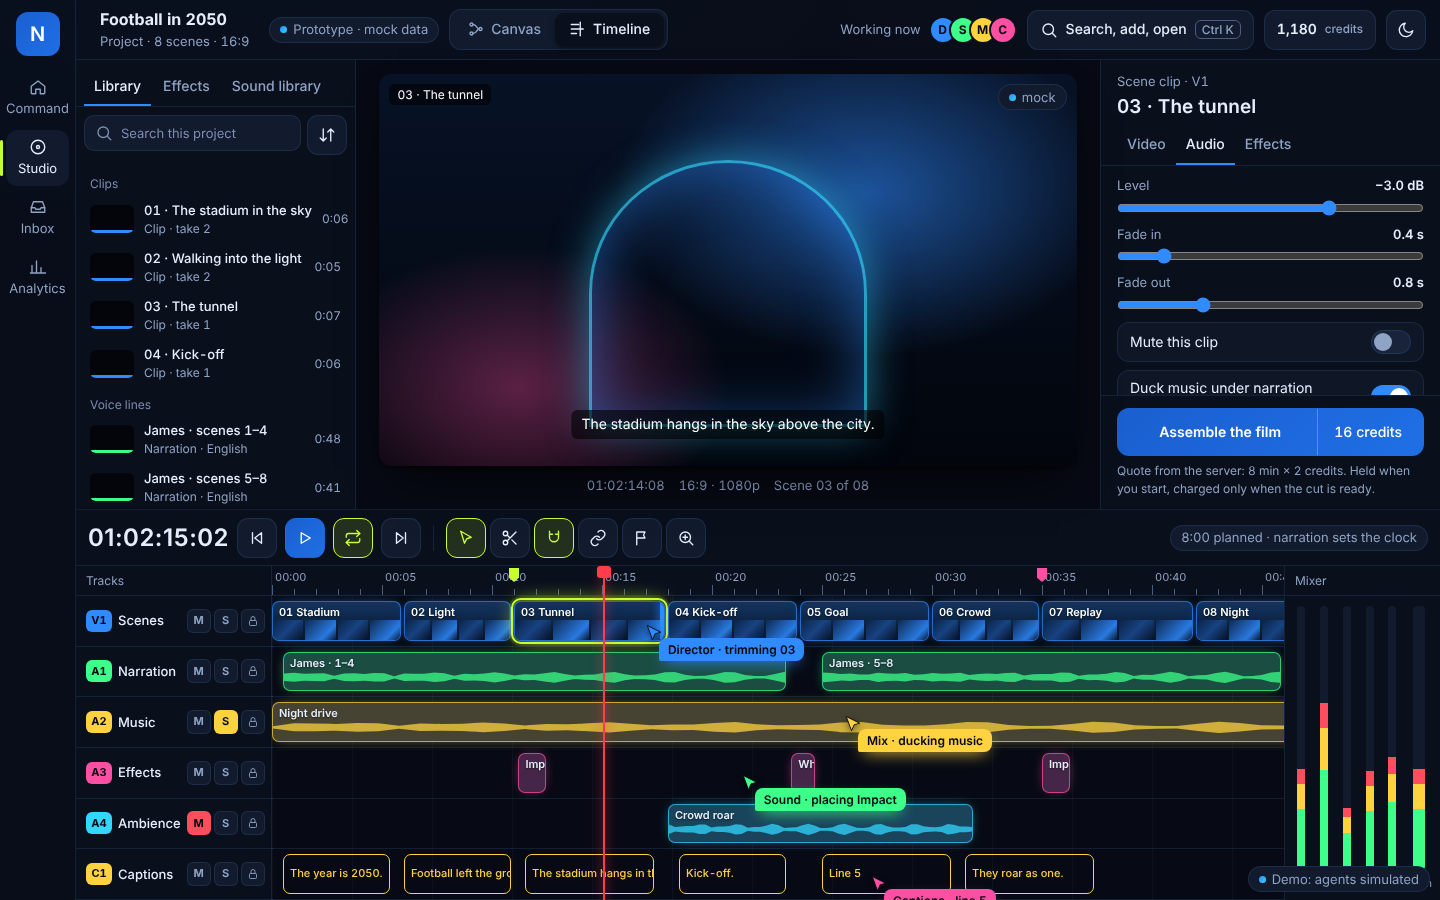
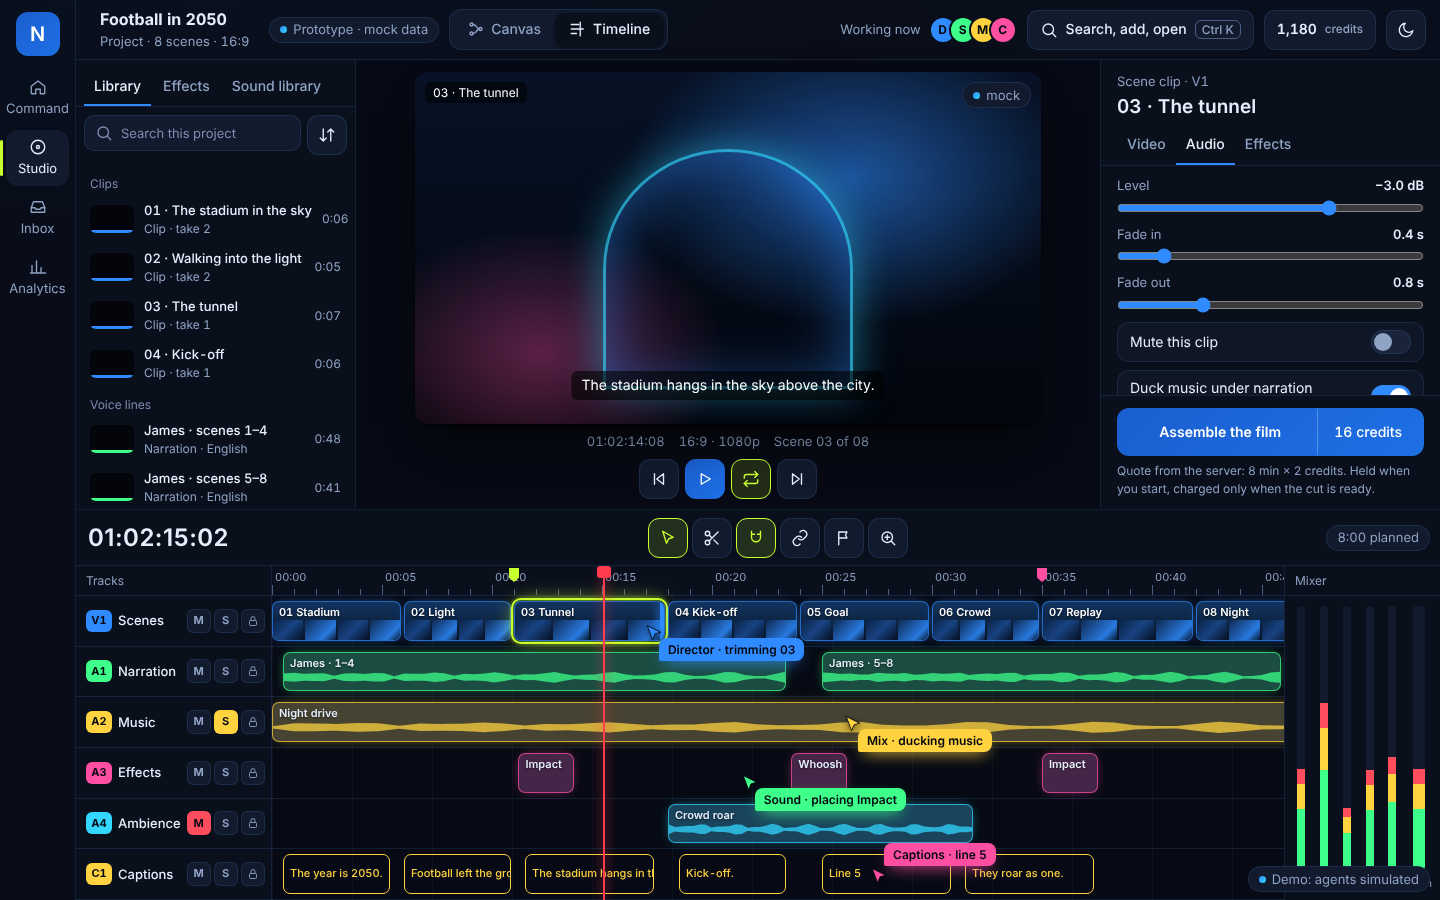
docs(studio): Timeline prototype, centred transport and tools
Owner feedback (as in the reference NLE edit page):
- playback (start, play, loop, end) sits centred under the viewer, below its
  info line;
- the edit tools are centred across the timeline width in the row above the
  ruler; the big timecode stays over the track headers, "8:00 planned" right;
- phone: the transport is centred in the bottom bar, Assemble on the right.
Also: effect clips are at least 56px (labels readable), and the captions
agent's pill sits above its cursor so it stays inside the lanes.

Claude-Session: https://claude.ai/code/session_01U4QVg455Zj15cxWWzzs8T6

diff --git a/docs/studio/prototype/studio-timeline-prototype.html b/docs/studio/prototype/studio-timeline-prototype.html
@@ -112,7 +112,7 @@ kbd { font: 500 12px var(--font); padding: 1px 6px; border-radius: 6px; border: 
 .lib li.gh { display: block; font-size: 12px; color: var(--faint); padding: 8px 6px 2px; }
 .lib li.gh:hover { background: none; }
 
-.viewer { display: grid; grid-template-rows: minmax(0, 1fr) auto; padding: 14px; gap: 10px; min-height: 0; min-width: 0; background: var(--canvas); }
+.viewer { display: grid; grid-template-rows: minmax(0, 1fr) auto auto; padding: 12px 14px 10px; gap: 8px; min-height: 0; min-width: 0; background: var(--canvas); }
 .screen { position: relative; aspect-ratio: 16 / 9; max-height: 100%; margin: 0 auto; width: auto; height: 100%; border-radius: 12px; overflow: hidden; background: var(--film); box-shadow: var(--lift); }
 .screen .sky { position: absolute; inset: 0; background: radial-gradient(60% 70% at 70% 30%, rgb(47 139 255 / .55), transparent 60%), radial-gradient(50% 60% at 20% 80%, rgb(255 79 163 / .35), transparent 60%), linear-gradient(180deg, #071226, #02050c); }
 .screen .tun { position: absolute; left: 30%; right: 30%; top: 22%; bottom: 10%; border-radius: 50% 50% 0 0; border: 3px solid rgb(51 214 255 / .7); box-shadow: 0 0 40px rgb(51 214 255 / .5), inset 0 0 60px rgb(47 139 255 / .5); }
@@ -120,6 +120,7 @@ kbd { font: 500 12px var(--font); padding: 1px 6px; border-radius: 6px; border: 
 .screen .tc { position: absolute; left: 10px; top: 10px; padding: 2px 8px; border-radius: 6px; background: rgb(0 0 0 / .55); color: #fff; font-size: 12px; }
 .screen .mk { position: absolute; right: 10px; top: 10px; }
 .vmeta { display: flex; justify-content: center; gap: 14px; color: var(--dim); font-size: 13px; }
+.vtrans { display: flex; justify-content: center; gap: 6px; }
 
 .insp { display: flex; flex-direction: column; min-height: 0; border-left: 1px solid var(--rule); background: var(--console); }
 .ih { padding: 12px 16px 0; border-bottom: 1px solid var(--rule); }
@@ -145,8 +146,11 @@ kbd { font: 500 12px var(--font); padding: 1px 6px; border-radius: 6px; border: 
 .if p { margin: 0; font-size: 12px; color: var(--dim); }
 
 /* tool row */
-.trow { display: flex; align-items: center; gap: 8px; padding: 0 12px; border-bottom: 1px solid var(--rule); background: var(--console); min-width: 0; }
-.tcbig { font: 600 24px/1 var(--font); letter-spacing: .02em; color: var(--text); min-width: 140px; }
+.trow { display: grid; grid-template-columns: var(--hdr-w) minmax(0, 1fr) var(--mix-w); align-items: center; border-bottom: 1px solid var(--rule); background: var(--console); min-width: 0; }
+.trow .tcbig { padding-left: 12px; }
+.trow .tools2 { justify-self: center; }
+.trow .chip { justify-self: end; margin-right: 10px; }
+.tcbig { font: 600 24px/1 var(--font); letter-spacing: .02em; color: var(--text); }
 .vsep { width: 1px; height: 26px; background: var(--rule); margin: 0 4px; }
 .tools2 { display: inline-flex; gap: 4px; }
 
@@ -202,6 +206,7 @@ kbd { font: 500 12px var(--font); padding: 1px 6px; border-radius: 6px; border: 
 .cursor { position: absolute; z-index: 20; pointer-events: none; transition: left 1.6s cubic-bezier(.2,0,0,1), top 1.6s cubic-bezier(.2,0,0,1); }
 .cursor svg { width: 18px; height: 18px; display: block; filter: drop-shadow(0 2px 3px rgb(0 0 0 / .5)); }
 .cursor svg path { fill: var(--c); stroke: #050811; stroke-width: 1.2; }
+.cursor.up .pill { top: -24px; }
 .cursor .pill { position: absolute; left: 14px; top: 14px; padding: 3px 9px; border-radius: 8px 8px 8px 2px; background: var(--c); color: #050811; font-size: 12px; font-weight: 600; white-space: nowrap; box-shadow: 0 6px 16px -6px var(--c); }
 .demo { position: absolute; right: 10px; bottom: 8px; z-index: 21; }
 
@@ -224,8 +229,12 @@ kbd { font: 500 12px var(--font); padding: 1px 6px; border-radius: 6px; border: 
   .demo { bottom: auto; top: 6px; right: 8px; }
   .th2 .tn { font-size: 12px; }
   .lanes { overflow-x: auto; }
-  .pbar { display: flex; position: fixed; left: 0; right: 0; bottom: 0; height: 68px; padding: 8px 12px calc(8px + env(safe-area-inset-bottom)); gap: 8px; align-items: center; justify-content: space-between; background: var(--glass); border-top: 1px solid var(--rule); backdrop-filter: blur(14px); z-index: 30; }
+  .trow { grid-template-columns: auto minmax(0, 1fr); }
+  .pbar { display: grid; grid-template-columns: 1fr auto 1fr; position: fixed; left: 0; right: 0; bottom: 0; height: 68px; padding: 8px 12px calc(8px + env(safe-area-inset-bottom)); gap: 8px; align-items: center; background: var(--glass); border-top: 1px solid var(--rule); backdrop-filter: blur(14px); z-index: 30; }
   .pbar .kbtn { height: 44px; }
+  .pbar .ctr { position: absolute; left: 50%; top: 12px; transform: translateX(-50%); display: inline-flex; gap: 6px; }
+  .pbar .asm { grid-column: 3; justify-self: end; flex-direction: column; gap: 0; height: 48px; padding: 0 12px; line-height: 1.1; font-size: 13px; }
+  .pbar .asm small { font-size: 11px; font-weight: 500; opacity: .9; }
   .demo { bottom: 8px; }
 }
 @media (prefers-reduced-motion: reduce) { *, *::before, *::after { animation: none !important; transition: none !important; } }
@@ -302,6 +311,12 @@ kbd { font: 500 12px var(--font); padding: 1px 6px; border-radius: 6px; border: 
           <span class="cap">The stadium hangs in the sky above the city.</span>
         </div>
         <div class="vmeta"><span>01:02:14:08</span><span>16:9 · 1080p</span><span>Scene 03 of 08</span></div>
+        <div class="vtrans hide-phone" role="toolbar" aria-label="Playback">
+          <button class="kbtn icon" aria-label="To start"><svg class="i"><use href="#i-start"/></svg></button>
+          <button class="kbtn icon primary" aria-label="Play"><svg class="i"><use href="#i-play"/></svg></button>
+          <button class="kbtn icon" aria-label="Loop" aria-pressed="true"><svg class="i"><use href="#i-loop"/></svg></button>
+          <button class="kbtn icon" aria-label="To end"><svg class="i"><use href="#i-end"/></svg></button>
+        </div>
       </div>
 
       <aside class="insp" aria-label="Clip inspector">
@@ -326,11 +341,6 @@ kbd { font: 500 12px var(--font); padding: 1px 6px; border-radius: 6px; border: 
 
     <div class="trow" role="toolbar" aria-label="Transport and tools">
       <span class="tcbig" id="tc">01:02:14:08</span>
-      <button class="kbtn icon" aria-label="To start"><svg class="i"><use href="#i-start"/></svg></button>
-      <button class="kbtn icon primary" aria-label="Play"><svg class="i"><use href="#i-play"/></svg></button>
-      <button class="kbtn icon" aria-label="Loop" aria-pressed="true"><svg class="i"><use href="#i-loop"/></svg></button>
-      <button class="kbtn icon" aria-label="To end"><svg class="i"><use href="#i-end"/></svg></button>
-      <span class="vsep"></span>
       <span class="tools2">
         <button class="kbtn icon" aria-label="Select" aria-pressed="true"><svg class="i"><use href="#i-arrow"/></svg></button>
         <button class="kbtn icon" aria-label="Blade"><svg class="i"><use href="#i-blade"/></svg></button>
@@ -339,8 +349,7 @@ kbd { font: 500 12px var(--font); padding: 1px 6px; border-radius: 6px; border: 
         <button class="kbtn icon" aria-label="Marker"><svg class="i"><use href="#i-flag"/></svg></button>
         <button class="kbtn icon" aria-label="Zoom"><svg class="i"><use href="#i-zoom"/></svg></button>
       </span>
-      <span class="grow"></span>
-      <span class="chip hide-phone">8:00 planned · narration sets the clock</span>
+      <span class="chip hide-phone" title="Narration sets the clock">8:00 planned</span>
     </div>
 
     <section class="lower">
@@ -356,11 +365,12 @@ kbd { font: 500 12px var(--font); padding: 1px 6px; border-radius: 6px; border: 
 </div>
 
 <nav class="pbar" aria-label="Transport">
-  <button class="kbtn icon" aria-label="To start"><svg class="i"><use href="#i-start"/></svg></button>
-  <button class="kbtn icon primary" aria-label="Play"><svg class="i"><use href="#i-play"/></svg></button>
-  <button class="kbtn icon" aria-label="Blade"><svg class="i"><use href="#i-blade"/></svg></button>
-  <span class="grow"></span>
-  <button class="kbtn primary">Assemble · 16 cr</button>
+  <span class="ctr">
+    <button class="kbtn icon" aria-label="To start"><svg class="i"><use href="#i-start"/></svg></button>
+    <button class="kbtn icon primary" aria-label="Play"><svg class="i"><use href="#i-play"/></svg></button>
+    <button class="kbtn icon" aria-label="To end"><svg class="i"><use href="#i-end"/></svg></button>
+  </span>
+  <button class="kbtn primary asm">Assemble<small>16 cr</small></button>
 </nav>
 
 <script>
@@ -403,7 +413,7 @@ const CLIPS = {
 const lanes = document.getElementById("lanes");
 let html = '<div class="ruler" id="ruler"></div>';
 for (const t of TRACKS) {
-  html += `<div class="lane" data-t="${t.id}">` + (CLIPS[t.id] || []).map(([s, d, lb, f], i) => `<div class="clip ${t.id === "V1" ? "v" : t.id === "C1" ? "cap" : ""} ${f === "sel" ? "sel" : ""}" data-c="${t.id}-${i}" style="--c:var(${t.c});left:${s * PX * 2}px;width:${d * PX * 2 - 3}px"><span class="lb">${lb}</span>${t.id === "V1" ? '<span class="thumbs"><i></i><i></i><i></i><i></i></span>' : f === "w" ? wave(i + s) : ""}</div>`).join("") + "</div>";
+  html += `<div class="lane" data-t="${t.id}">` + (CLIPS[t.id] || []).map(([s, d, lb, f], i) => `<div class="clip ${t.id === "V1" ? "v" : t.id === "C1" ? "cap" : ""} ${f === "sel" ? "sel" : ""}" data-c="${t.id}-${i}" style="--c:var(${t.c});left:${s * PX * 2}px;width:${Math.max(t.id === "A3" ? 56 : 0, d * PX * 2 - 3)}px"><span class="lb">${lb}</span>${t.id === "V1" ? '<span class="thumbs"><i></i><i></i><i></i><i></i></span>' : f === "w" ? wave(i + s) : ""}</div>`).join("") + "</div>";
 }
 lanes.innerHTML = html + '<div class="playhead" id="ph" style="left:300px"></div>';
 const ruler = document.getElementById("ruler");
@@ -432,12 +442,12 @@ const AGENTS = [
   { name: "Director · trimming 03", c: "#2f8bff", lane: "V1", steps: [[13.5, 0.55], [17.6, 0.55], [17.2, 0.5]], act: (on) => document.querySelector('[data-c="V1-2"]').classList.toggle("trim", on) },
   { name: "Sound · placing Impact", c: "#3dff8a", lane: "A3", steps: [[8, 0.5], [11.4, 0.5], [23.8, 0.5]] },
   { name: "Mix · ducking music", c: "#ffd23f", lane: "A2", steps: [[26, 0.35], [31, 0.6], [28, 0.45]] },
-  { name: "Captions · line 5", c: "#ff4fa3", lane: "C1", steps: [[25.5, 0.5], [27.5, 0.5], [26, 0.5]] },
+  { name: "Captions · line 5", c: "#ff4fa3", lane: "C1", up: true, steps: [[25.5, 0.35], [27.5, 0.35], [26, 0.35]] },
 ];
 const lanesBox = lanes.getBoundingClientRect();
 const cursors = AGENTS.map((a) => {
   const el = document.createElement("div");
-  el.className = "cursor"; el.style.setProperty("--c", a.c);
+  el.className = a.up ? "cursor up" : "cursor"; el.style.setProperty("--c", a.c);
   el.innerHTML = `<svg viewBox="0 0 24 24"><path d="M3 2l18 9-7.5 2L10 21z"/></svg><span class="pill">${a.name}</span>`;
   lanes.appendChild(el);
   return el;
